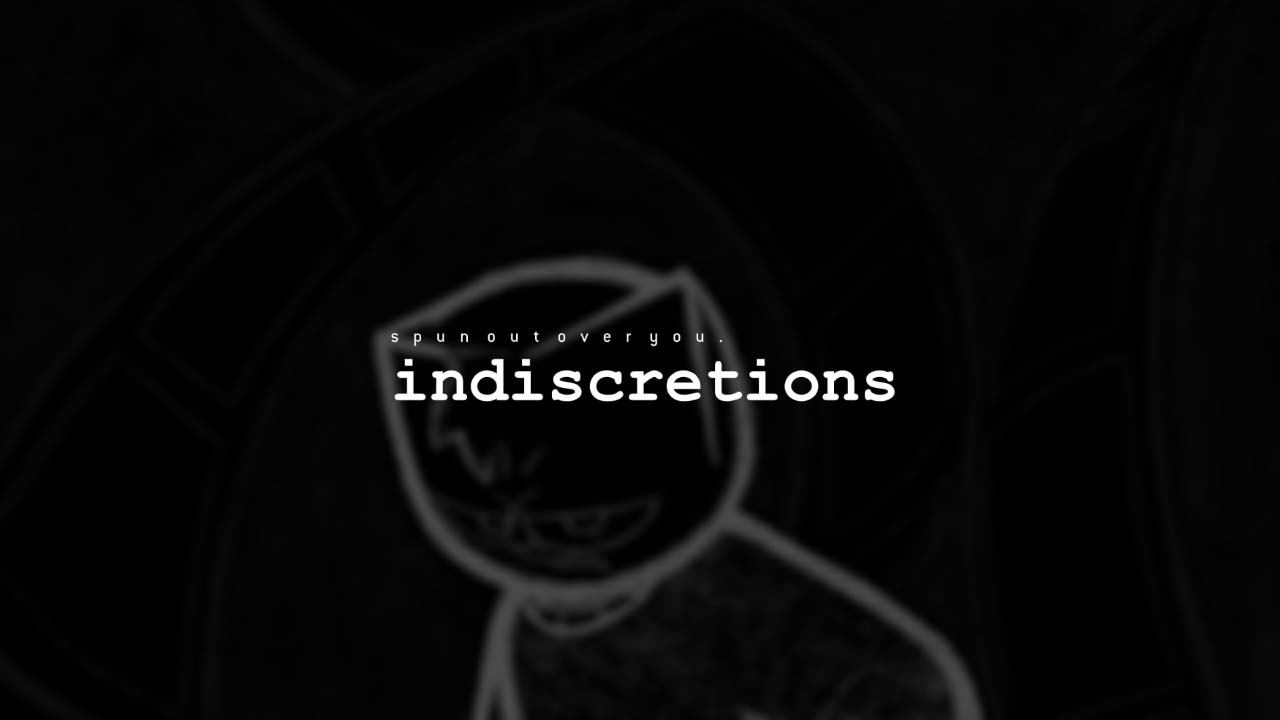
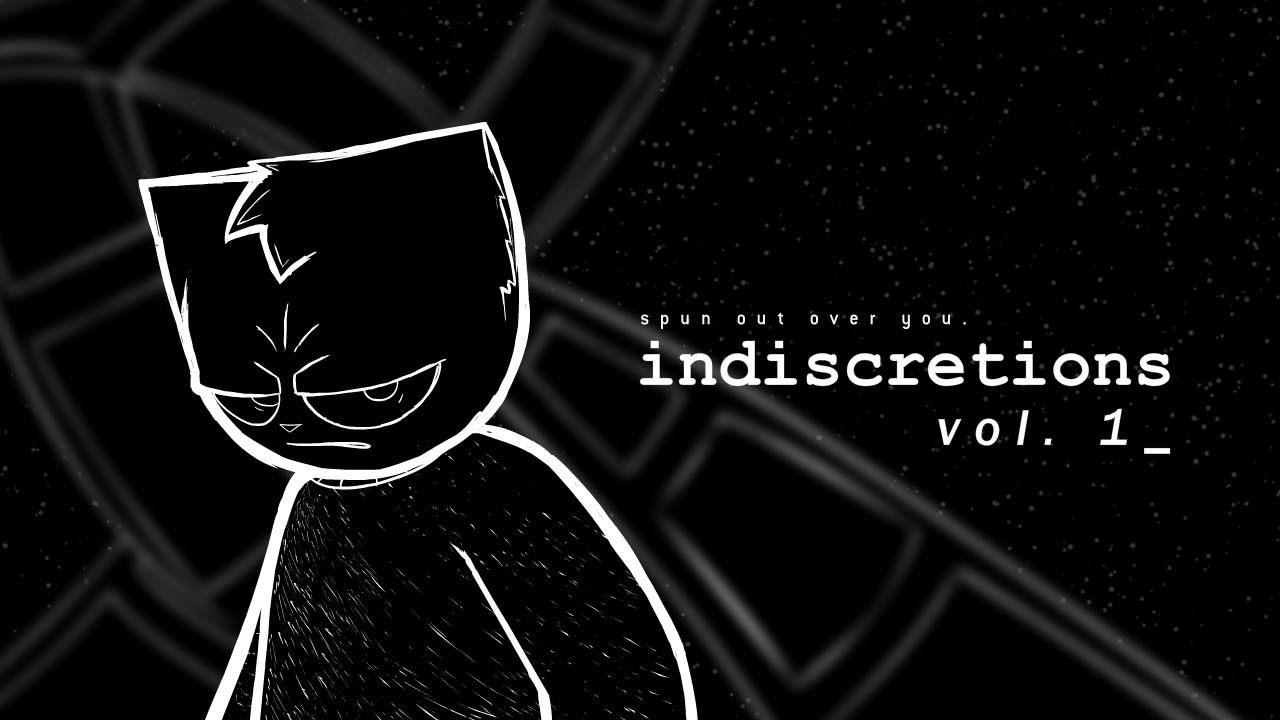
deploy: a25ab81e7719d723f217dc3568340856075825bf

diff --git a/index.html b/index.html
@@ -242,6 +242,19 @@
 				</div>
 			</div>
 			<div class="featured-mods">
+				<div class="featured-mod premium featured softcoded" data-time="2024-12-31T23:53:09.000Z" data-author="Vibreee" data-version="1.1.0" data-tags="premium,featured,softcoded">
+					<a href="https://gamebanana.com/mods/544976">
+						<img src="./featuredMods/indiscretions/cover.jpg" loading="lazy" alt="indiscretions: volume 1">
+						<div class="card-content">
+							<h3>indiscretions: volume 1</h3>
+							<p></p><p style="text-align: center; width: 100%">spun out over you.</p><p></p>
+						</div>
+						<span class="placement">cne</span>
+						<span class="last-updated" data-time="2024-12-31T23:53:09.000Z">2024-12-31</span>
+						<img src="img/sparkle-top.gif" class="sparkle top">
+						<img src="img/sparkle-bottom.gif" class="sparkle bottom">
+					</a>
+				</div>
 				<div class="featured-mod softcoded longer-title" data-time="2024-12-25T06:12:56.000Z" data-author="Tobicm_" data-version="1.0" data-tags="softcoded,longer-title">
 					<a href="https://gamebanana.com/mods/564423">
 						<img src="./featuredMods/funkyfsJJ/cover.jpg" loading="lazy" alt="FNF: Funky Friend Server - JOLLY JINGLES">
@@ -417,19 +430,6 @@ Little do they know that their scavenge would soon end futile.</p>
 						</div>
 						<span class="placement">cne</span>
 						<span class="last-updated" data-time="2024-10-03T14:12:18.000Z">2024-10-03</span>
-					</a>
-				</div>
-				<div class="featured-mod premium featured softcoded" data-time="2024-09-28T02:45:02.000Z" data-author="Vibreee" data-version="1.0.0" data-tags="premium,featured,softcoded">
-					<a href="https://gamebanana.com/mods/544976">
-						<img src="./featuredMods/indiscretions/cover.jpg" loading="lazy" alt="Indiscretions">
-						<div class="card-content">
-							<h3>Indiscretions</h3>
-							<p>don't you think its all just a bad dream?</p>
-						</div>
-						<span class="placement">cne</span>
-						<span class="last-updated" data-time="2024-09-28T02:45:02.000Z">2024-09-28</span>
-						<img src="img/sparkle-top.gif" class="sparkle top">
-						<img src="img/sparkle-bottom.gif" class="sparkle bottom">
 					</a>
 				</div>
 				<div class="featured-mod featured softcoded" data-time="2024-09-22T23:07:39.000Z" data-author="usb_port_2" data-source="https://github.com/usb-port-2/Friday-Night-Purgin-demo-modpack" data-version="1.0.0" data-tags="featured,softcoded">
